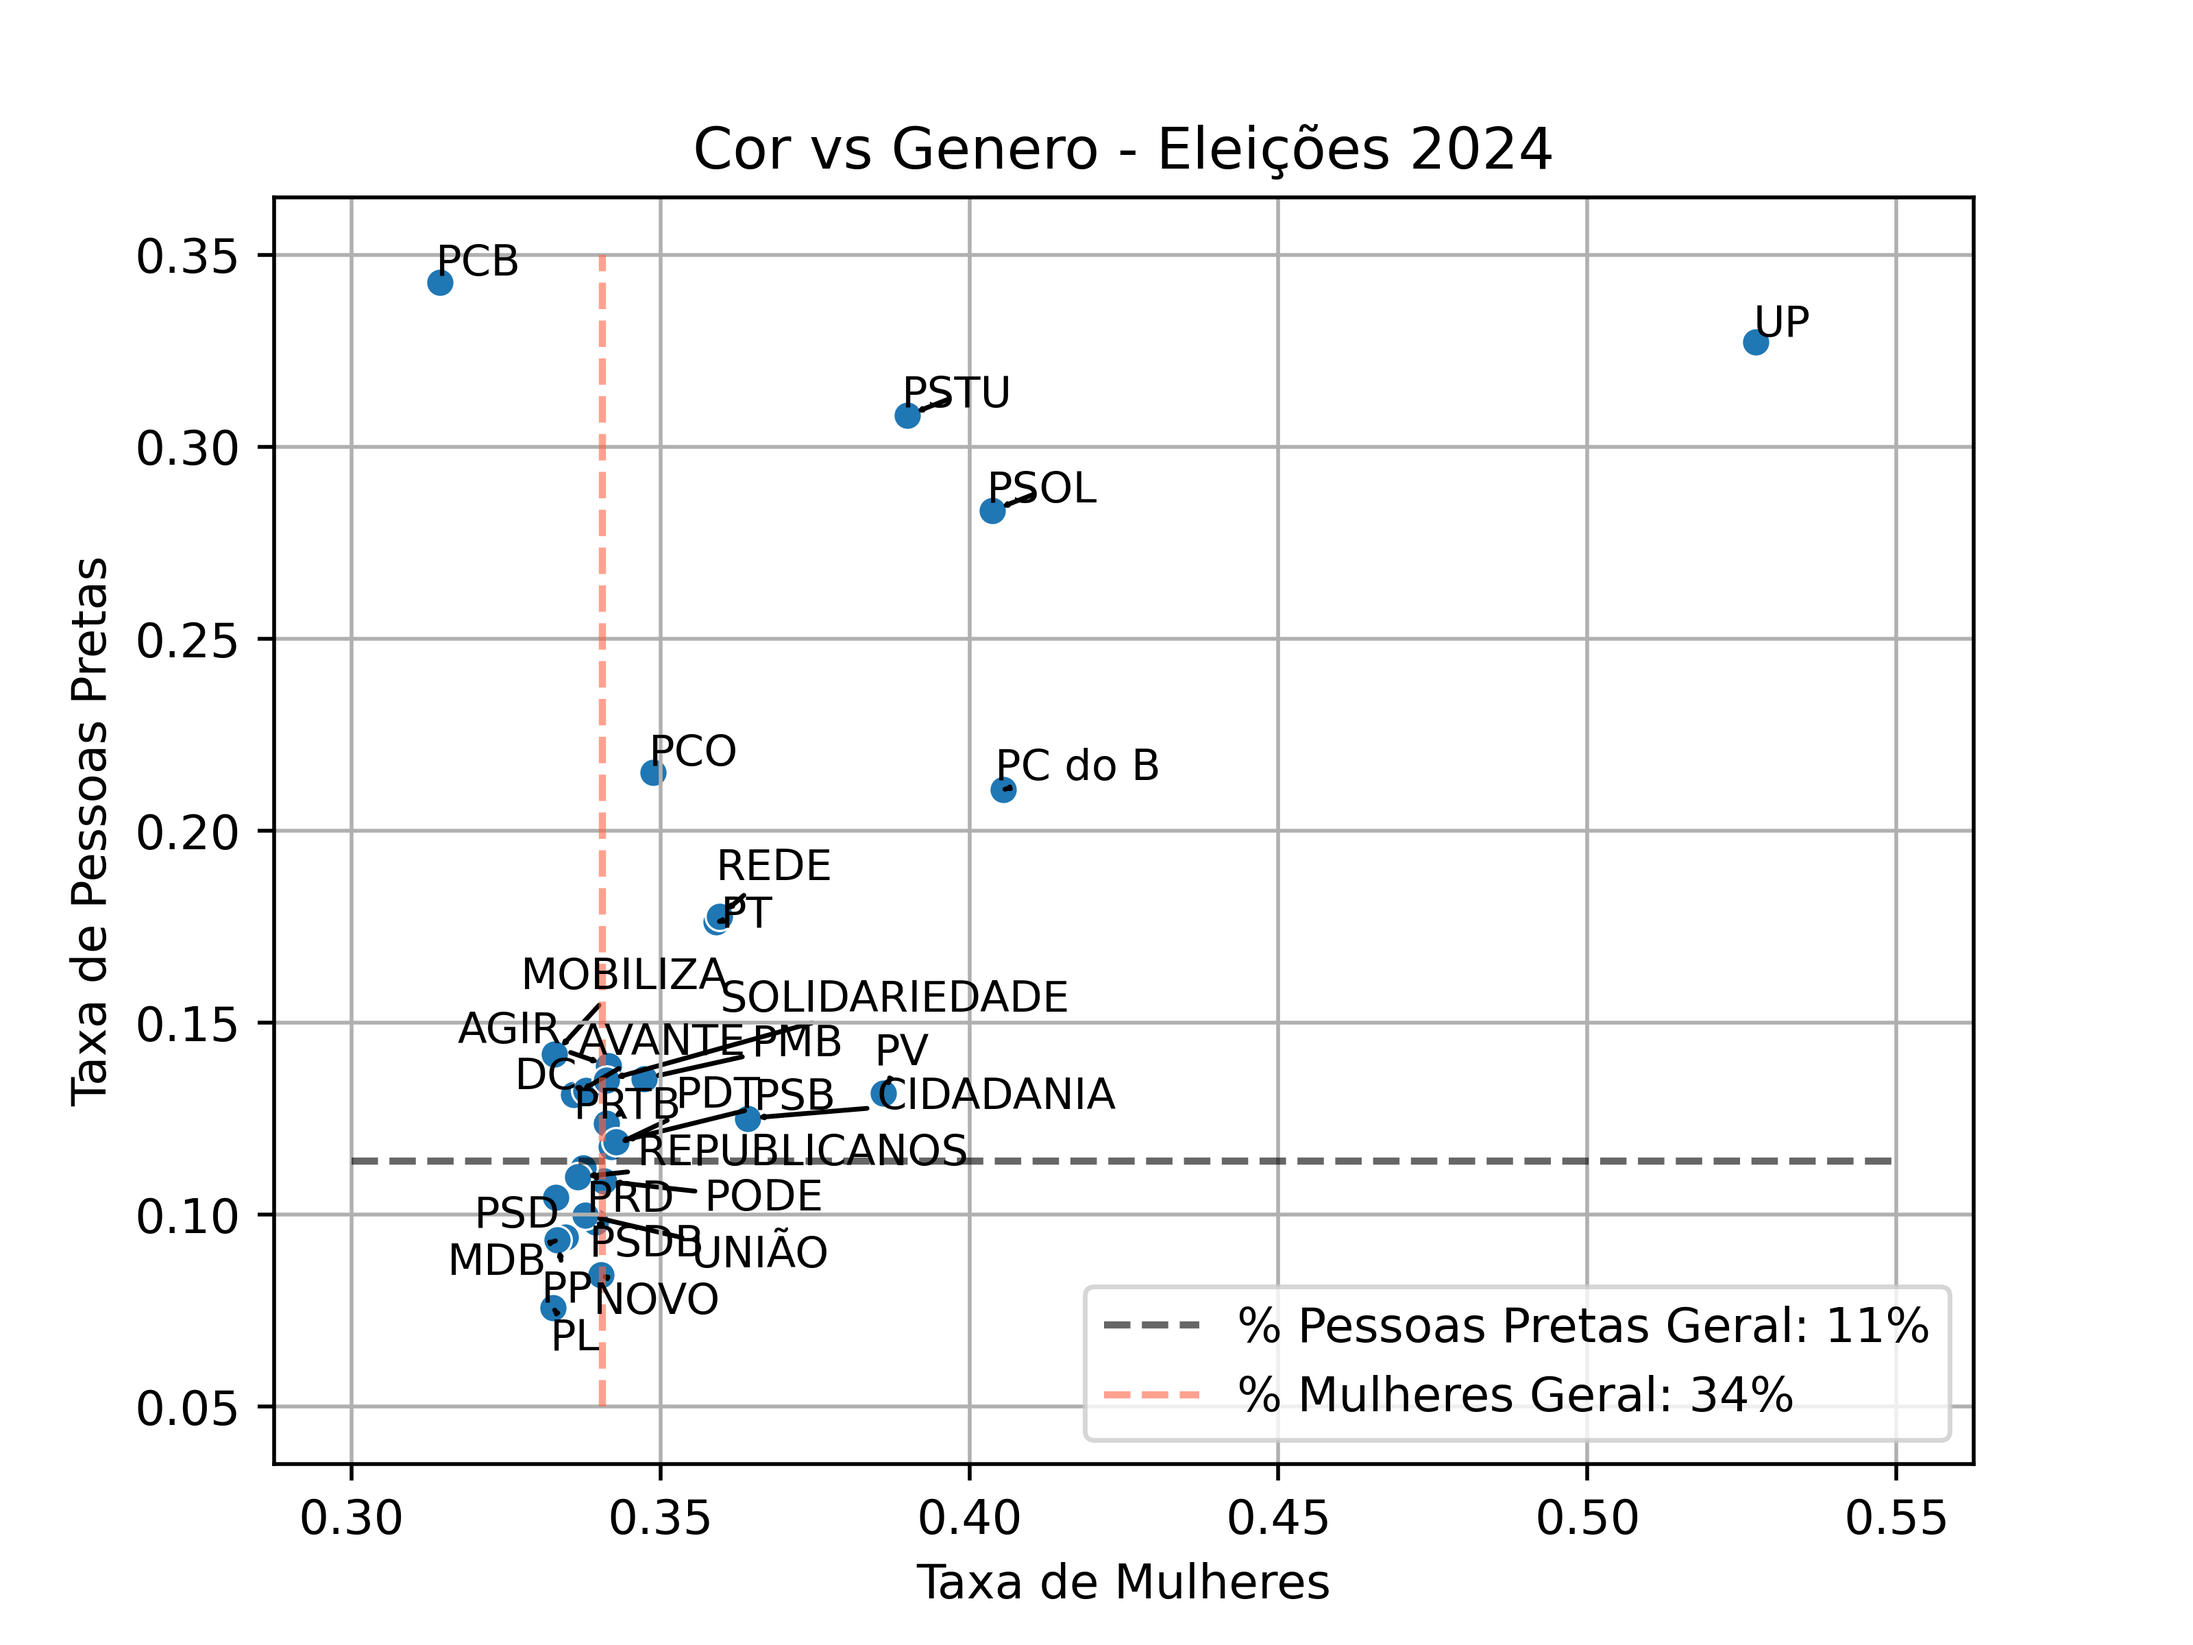
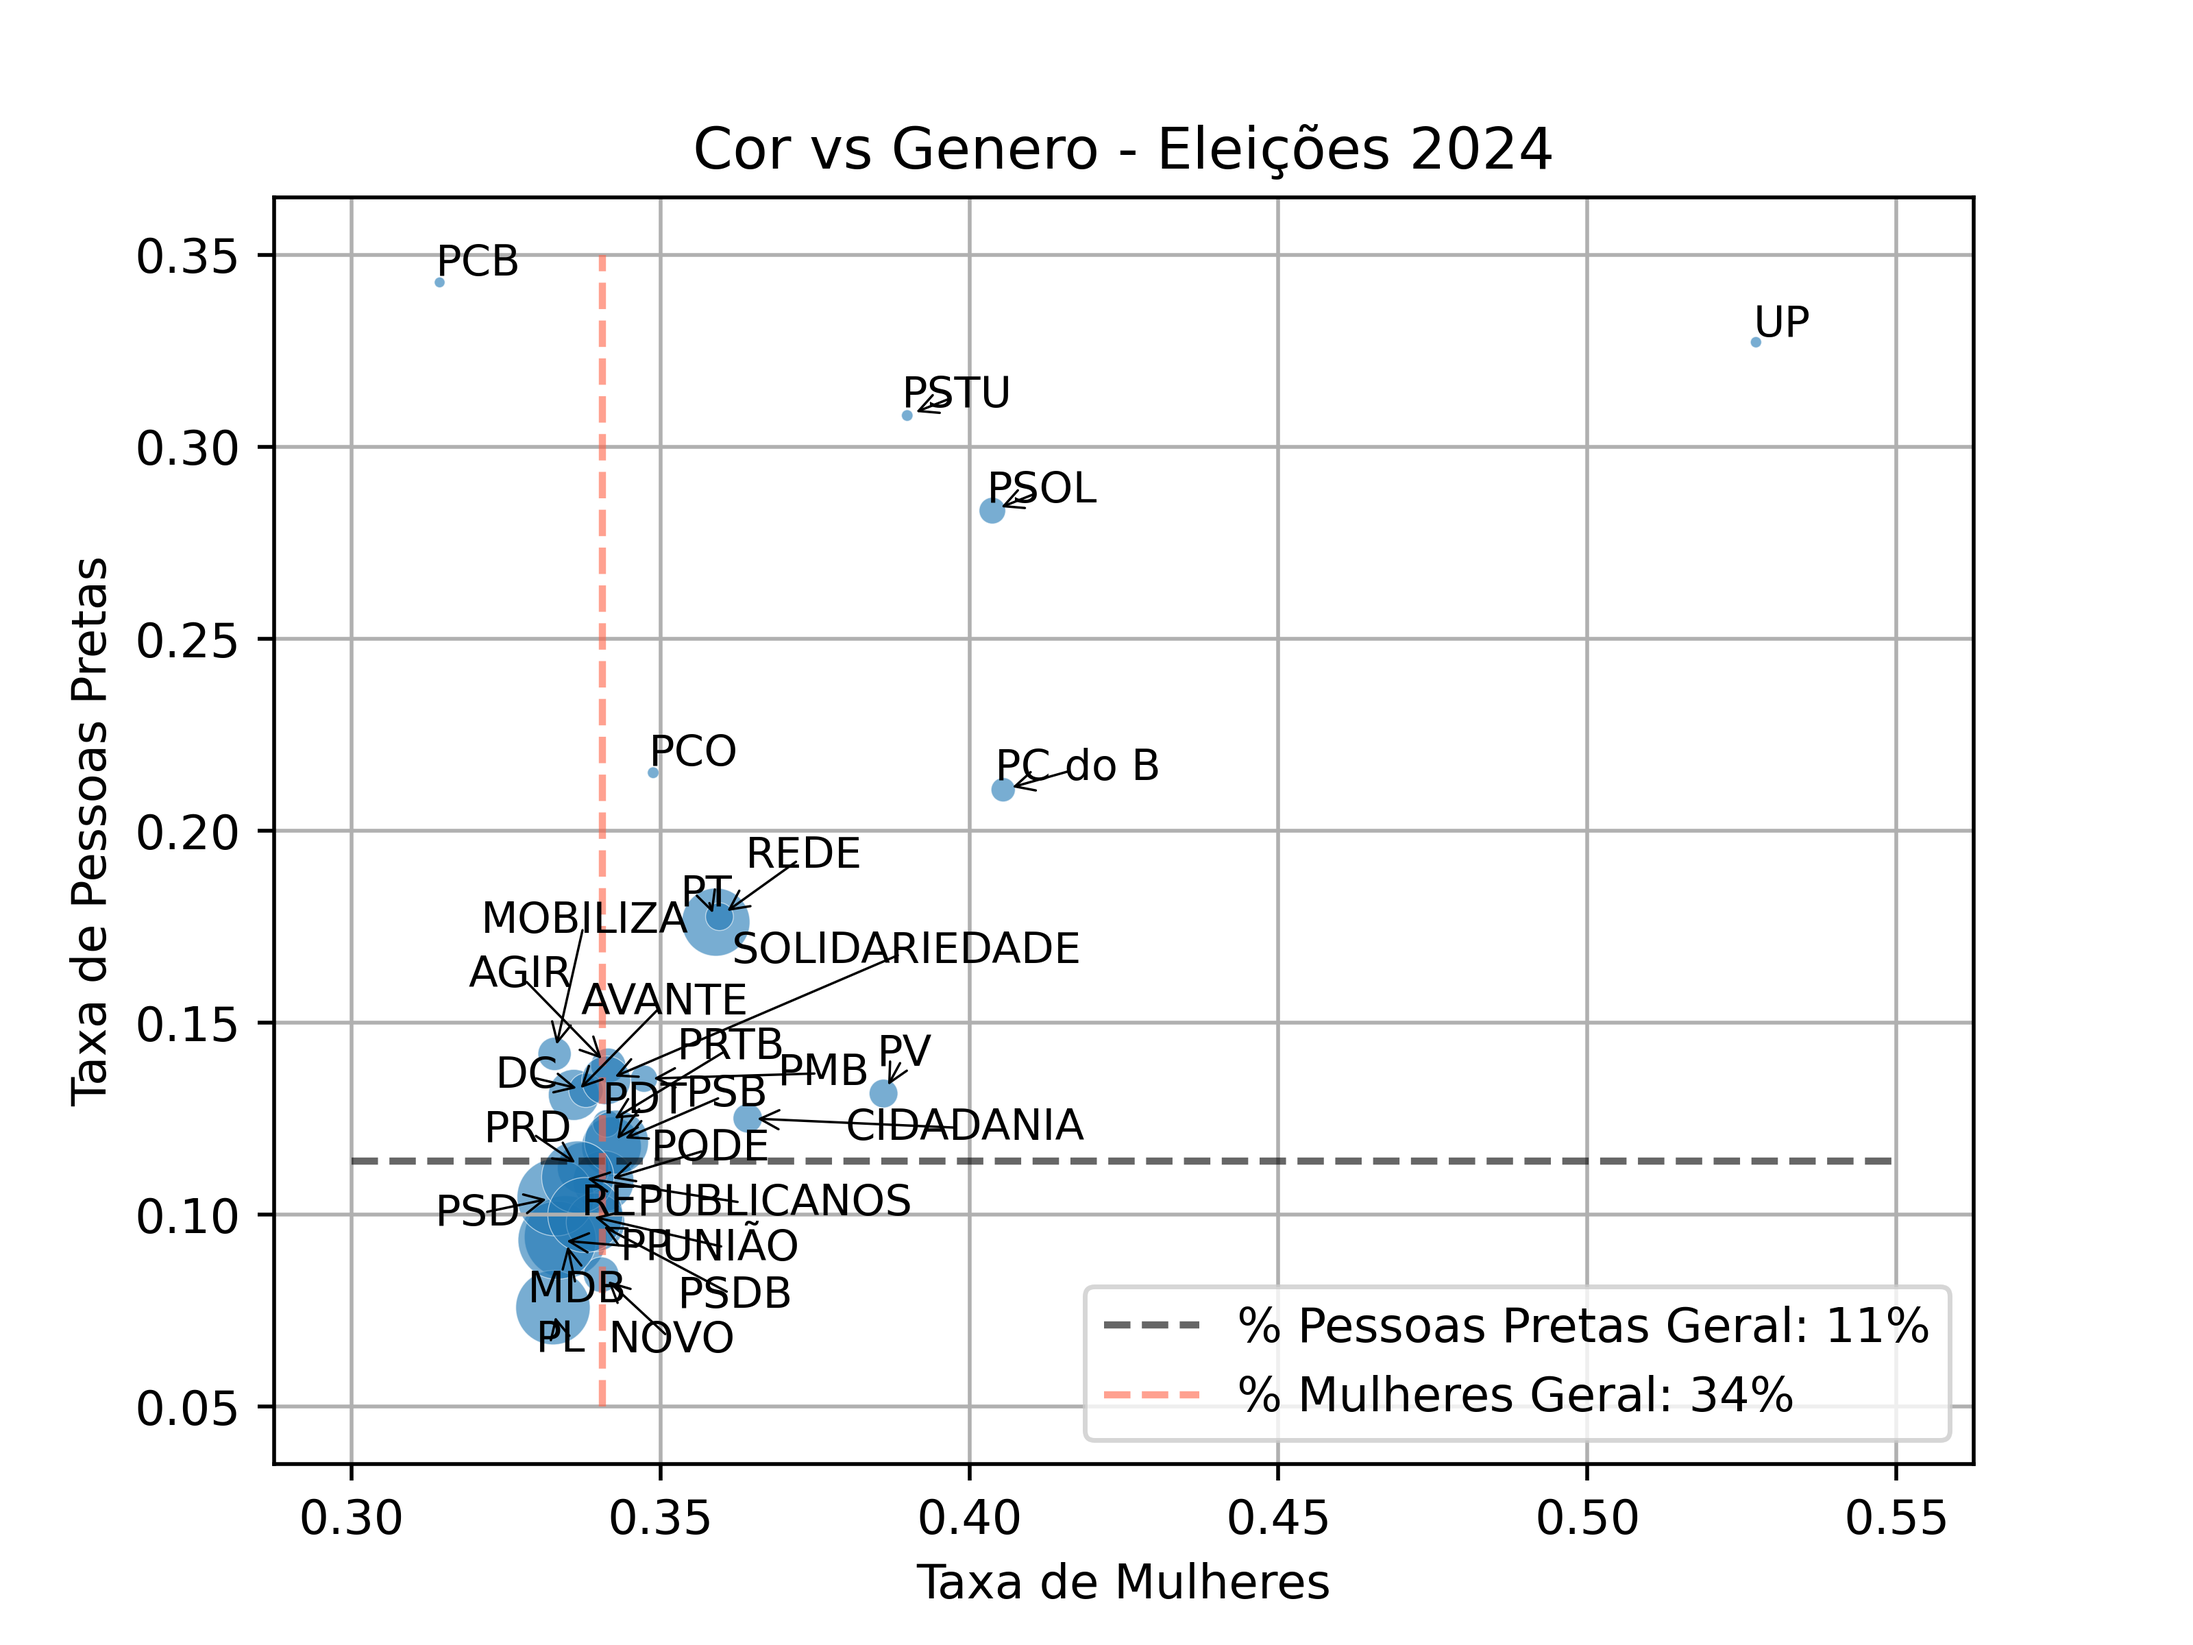
Revisar analises

diff --git a/src/analyses.py b/src/analyses.py
@@ -28,9 +28,12 @@ plt.figure(dpi=500)
 
 sn.scatterplot(data=df,
         x="tx_gen_feminino_BR",
-        y="tx_cor_raca_preta_BR"
+        y="tx_cor_raca_preta_BR",
+        size="total_candidaturas",
+        sizes=(5,300),
+        palette='viridis',
+        alpha=0.6
 )
-
 texts = []
 for i in df['SG_PARTIDO']:
     data = df[df["SG_PARTIDO"]==i]
@@ -39,9 +42,58 @@ for i in df['SG_PARTIDO']:
     texts.append(plt.text(x, y, i, fontsize=9))
 
 adjust_text(texts,
-            only_move={'points':'y', 'text':'xy'},
-            arrowprops=dict(arrowstyle="->", color='black'),
+    force_points=0.0002,
+    force_text=0.3,
+    expand_points=(0.5, 0.75),
+    expand_text=(0.5, 0.75),
+    only_move={'points':'y', 'text':'xy'},
+    arrowprops=dict(arrowstyle="->", color='black', lw=0.5),
+    pull_threshold=1000,
+    hue=["cluster_BR"],
 )
+
+plt.grid(True)
+plt.title("Cor vs Genero - Eleições 2024")
+plt.xlabel("Taxa de Mulheres")
+plt.ylabel("Taxa de Pessoas Pretas")
+
+plt.hlines(y = tx_cor_raca_preta, xmin = 0.3, xmax = 0.55,  colors="black", alpha=0.6, linestyles='--', label=f"% Pessoas Pretas Geral: {100*tx_cor_raca_preta:.0f}%")
+plt.vlines(x = tx_gen_feminino, ymin = 0.05, ymax = 0.35,  colors="tomato", alpha=0.6, linestyles='--', label=f"% Mulheres Geral: {100*tx_gen_feminino:.0f}%")
+
+handles, labels = plt.gca().get_legend_handles_labels()
+handles = handles[5:]
+labels = labels[5:]
+
+plt.legend(handles=handles, labels=labels)
+
+
+plt.savefig("../img/partidos_cor_gen_1.png")
+
+# %%
+plt.figure(dpi=500)
+
+sn.scatterplot(data=df,
+        x="tx_gen_feminino_BR",
+        y="tx_cor_raca_preta_BR"
+)
+texts = []
+for i in df['SG_PARTIDO']:
+    data = df[df["SG_PARTIDO"]==i]
+    x = data['tx_gen_feminino_BR'].values[0]
+    y = data['tx_cor_raca_preta_BR'].values[0]
+    texts.append(plt.text(x, y, i, fontsize=9))
+
+adjust_text(texts,
+    force_points=0.0002,
+    force_text=0.3,
+    expand_points=(0.5, 0.75),
+    expand_text=(0.5, 0.75),
+    only_move={'points':'y', 'text':'xy'},
+    arrowprops=dict(arrowstyle="->", color='black', lw=0.5),
+    pull_threshold=1000,
+
+)
+
 plt.grid(True)
 plt.title("Cor vs Genero - Eleições 2024")
 plt.xlabel("Taxa de Mulheres")
@@ -51,4 +103,17 @@ plt.hlines(y = tx_cor_raca_preta, xmin = 0.3, xmax = 0.55,  colors="black", alph
 plt.vlines(x = tx_gen_feminino, ymin = 0.05, ymax = 0.35,  colors="tomato", alpha=0.6, linestyles='--', label=f"% Mulheres Geral: {100*tx_gen_feminino:.0f}%")
 
 plt.legend()
-plt.savefig("../img/partidos_cor_gen.png")
+
+
+plt.savefig("../img/partidos_cor_gen_2.png")
+
+#%%
+from sklearn import cluster
+X = df[["tx_gen_feminino_BR", "tx_cor_raca_preta_BR"]]
+model = cluster.KMeans(n_clusters=5)
+model.fit(X)
+
+df["cluster_BR"] = model.labels_
+
+df.groupby("cluster_BR")["tx_gen_feminino_BR"].count()
+# %%

diff --git a/readme.md b/readme.md
@@ -1,0 +1,7 @@
+## Análises
+
+- [ ] Agrupamento
+- [ ] Separação por UF
+- [ ] Separação por UF/Cargo
+- [ ] Separação por cargo
+- [ ] Análise Faixa Etária
